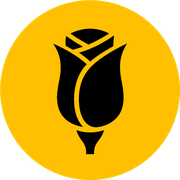
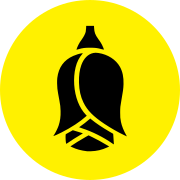
feat(layout): rebuild institutional multi-column footer
feat(a11y): raise base type scale for readable UI text
chore(brand): refresh flor logo assets and crop marks

diff --git a/src/components/layout/site-footer.tsx b/src/components/layout/site-footer.tsx
@@ -1,42 +1,78 @@
+import Link from "next/link";
 import { BrandMark } from "@/components/layout/brand-mark";
 import { site } from "@/content/site";
 
+const year = new Date().getFullYear();
+
 export function SiteFooter() {
   return (
-    <footer className="border-foreground/10 bg-surface/60 border-t">
-      <div className="container-page grid gap-8 py-10 md:grid-cols-[1.4fr_1fr_1fr]">
-        <div className="space-y-3">
-          <BrandMark name={site.name} size={32} />
-          <p className="text-muted max-w-md text-sm leading-relaxed">
+    <footer className="border-foreground/10 bg-surface border-t">
+      <div className="container-page grid gap-10 py-14 md:grid-cols-[1.5fr_1fr_1fr_1fr] md:gap-8 lg:gap-12">
+        <div className="space-y-4 md:max-w-sm">
+          <BrandMark name={site.name} size={40} />
+          <p className="text-muted text-base leading-relaxed">
             {site.description}
           </p>
         </div>
 
-        <div className="space-y-3 text-sm">
-          <p className="font-semibold">Contacto</p>
-          <a
-            className="text-muted hover:text-foreground block min-h-11 underline-offset-4 hover:underline"
-            href={`mailto:${site.urls.email}`}
-          >
-            {site.urls.email}
-          </a>
-          <a
-            className="text-brand-green block min-h-11 font-medium underline-offset-4 hover:underline"
-            href={site.urls.beacons}
-            target="_blank"
-            rel="noopener noreferrer"
-          >
-            Comunidades en Beacons
-          </a>
+        <nav aria-label="Pie de página" className="space-y-4">
+          <p className="font-display text-lg font-semibold">Navegación</p>
+          <ul className="space-y-1">
+            {site.nav.map((item) => (
+              <li key={item.href}>
+                {item.external ? (
+                  <a
+                    className="text-muted hover:text-foreground inline-flex min-h-11 items-center text-base underline-offset-4 hover:underline"
+                    href={item.href}
+                    target="_blank"
+                    rel="noopener noreferrer"
+                  >
+                    {item.label}
+                  </a>
+                ) : (
+                  <Link
+                    className="text-muted hover:text-foreground inline-flex min-h-11 items-center text-base underline-offset-4 hover:underline"
+                    href={item.href}
+                  >
+                    {item.label}
+                  </Link>
+                )}
+              </li>
+            ))}
+          </ul>
+        </nav>
+
+        <div className="space-y-4">
+          <p className="font-display text-lg font-semibold">Contacto</p>
+          <ul className="space-y-1">
+            <li>
+              <a
+                className="text-muted hover:text-foreground inline-flex min-h-11 items-center text-base underline-offset-4 hover:underline"
+                href={`mailto:${site.urls.email}`}
+              >
+                {site.urls.email}
+              </a>
+            </li>
+            <li>
+              <a
+                className="text-brand-green inline-flex min-h-11 items-center text-base font-medium underline-offset-4 hover:underline"
+                href={site.urls.beacons}
+                target="_blank"
+                rel="noopener noreferrer"
+              >
+                Comunidades en Beacons
+              </a>
+            </li>
+          </ul>
         </div>
 
-        <div className="space-y-3 text-sm">
-          <p className="font-semibold">Redes</p>
-          <ul className="text-muted space-y-1">
+        <div className="space-y-4">
+          <p className="font-display text-lg font-semibold">Redes</p>
+          <ul className="space-y-1">
             {site.leadership.links.map((item) => (
               <li key={item.href}>
                 <a
-                  className="hover:text-foreground inline-flex min-h-11 items-center underline-offset-4 hover:underline"
+                  className="text-muted hover:text-foreground inline-flex min-h-11 items-center text-base underline-offset-4 hover:underline"
                   href={item.href}
                   target="_blank"
                   rel="noopener noreferrer"
@@ -46,6 +82,17 @@ export function SiteFooter() {
               </li>
             ))}
           </ul>
+        </div>
+      </div>
+
+      <div className="border-foreground/10 border-t">
+        <div className="container-page flex flex-col gap-3 py-6 sm:flex-row sm:items-start sm:justify-between sm:gap-8">
+          <p className="text-muted max-w-2xl text-base leading-relaxed">
+            {site.disclaimer}
+          </p>
+          <p className="text-muted shrink-0 text-base">
+            © {year} {site.name}
+          </p>
         </div>
       </div>
     </footer>

diff --git a/src/app/globals.css b/src/app/globals.css
@@ -51,6 +51,7 @@
 
 /* Wash on html (not body::before) so it isn't covered by html's solid fill */
 html {
+  font-size: 112.5%; /* 18px — base más legible para accesibilidad */
   background:
     radial-gradient(
       ellipse 90% 70% at 8% -5%,
@@ -86,6 +87,8 @@ body {
   background-color: transparent;
   color: var(--foreground);
   font-family: var(--font-source), ui-sans-serif, system-ui, sans-serif;
+  font-size: 1rem;
+  line-height: 1.6;
 }
 
 h1,
@@ -109,7 +112,7 @@ h3 {
 
 .eyebrow {
   color: var(--brand-green);
-  font-size: 0.875rem;
+  font-size: 0.9375rem;
   font-weight: 600;
   letter-spacing: 0.18em;
   text-transform: uppercase;
@@ -130,7 +133,7 @@ h3 {
   border-radius: 0.375rem;
   background: var(--foreground);
   padding: 0.625rem 1.25rem;
-  font-size: 0.875rem;
+  font-size: 1rem;
   font-weight: 600;
   color: var(--background);
   transition: background-color 0.15s ease;
@@ -149,7 +152,7 @@ h3 {
   border: 1px solid color-mix(in srgb, var(--foreground) 20%, transparent);
   background: var(--surface);
   padding: 0.625rem 1.25rem;
-  font-size: 0.875rem;
+  font-size: 1rem;
   font-weight: 600;
   color: var(--foreground);
   transition: border-color 0.15s ease;

diff --git a/src/components/layout/mobile-nav.tsx b/src/components/layout/mobile-nav.tsx
@@ -66,7 +66,7 @@ export function MobileNav({ items }: MobileNavProps) {
       <button
         ref={buttonRef}
         type="button"
-        className="border-foreground/20 inline-flex min-h-11 min-w-11 items-center justify-center rounded-xl border px-3 text-sm font-semibold"
+        className="border-foreground/20 inline-flex min-h-11 min-w-11 items-center justify-center rounded-xl border px-3 text-base font-semibold"
         aria-expanded={open}
         aria-controls="mobile-nav-panel"
         aria-haspopup="dialog"
@@ -96,7 +96,7 @@ export function MobileNav({ items }: MobileNavProps) {
             </p>
             <button
               type="button"
-              className="border-foreground/20 inline-flex min-h-11 min-w-11 items-center justify-center rounded-md border text-sm font-semibold"
+              className="border-foreground/20 inline-flex min-h-11 min-w-11 items-center justify-center rounded-md border text-base font-semibold"
               onClick={close}
             >
               Cerrar

diff --git a/src/app/layout.tsx b/src/app/layout.tsx
@@ -35,7 +35,10 @@ export const metadata: Metadata = {
   description: site.description,
   metadataBase: resolveMetadataBase(),
   icons: {
-    icon: [{ url: "/brand/favicon-32.png", sizes: "32x32", type: "image/png" }],
+    icon: [
+      { url: "/brand/favicon-32.png", sizes: "32x32", type: "image/png" },
+      { url: "/brand/favicon-64.png", sizes: "64x64", type: "image/png" },
+    ],
     apple: [{ url: "/brand/apple-touch-icon.png", sizes: "180x180" }],
   },
   openGraph: {

diff --git a/src/components/home/home-hero.tsx b/src/components/home/home-hero.tsx
@@ -27,8 +27,9 @@ export function HomeHero() {
               alt=""
               width={72}
               height={72}
-              className="shrink-0 rounded-full"
+              className="aspect-square size-[72px] shrink-0 overflow-hidden rounded-full object-cover"
               priority
+              sizes="72px"
             />
             <p className="font-display text-2xl font-semibold tracking-tight sm:text-3xl">
               {site.name}

diff --git a/src/components/layout/skip-link.tsx b/src/components/layout/skip-link.tsx
@@ -2,7 +2,7 @@ export function SkipLink() {
   return (
     <a
       href="#contenido"
-      className="bg-foreground text-background absolute top-[-100%] left-4 z-[100] rounded-md px-4 py-3 text-sm font-semibold focus:top-4"
+      className="bg-foreground text-background absolute top-[-100%] left-4 z-[100] rounded-md px-4 py-3 text-base font-semibold focus:top-4"
     >
       Saltar al contenido
     </a>

diff --git a/src/components/layout/brand-mark.tsx b/src/components/layout/brand-mark.tsx
@@ -27,8 +27,10 @@ export function BrandMark({
         alt=""
         width={size}
         height={size}
-        className="block shrink-0 rounded-full"
+        className="block shrink-0 overflow-hidden rounded-full object-cover"
+        style={{ width: size, height: size }}
         priority={priority}
+        sizes={`${size}px`}
       />
       {showName ? (
         <span

diff --git a/src/components/layout/site-header.tsx b/src/components/layout/site-header.tsx
@@ -37,7 +37,7 @@ export function SiteHeader() {
 
           <nav
             aria-label="Principal"
-            className="text-muted hidden h-full items-center gap-5 text-sm md:flex"
+            className="text-muted hidden h-full items-center gap-5 text-base md:flex"
           >
             {navItems.map((item) =>
               item.external ? (
